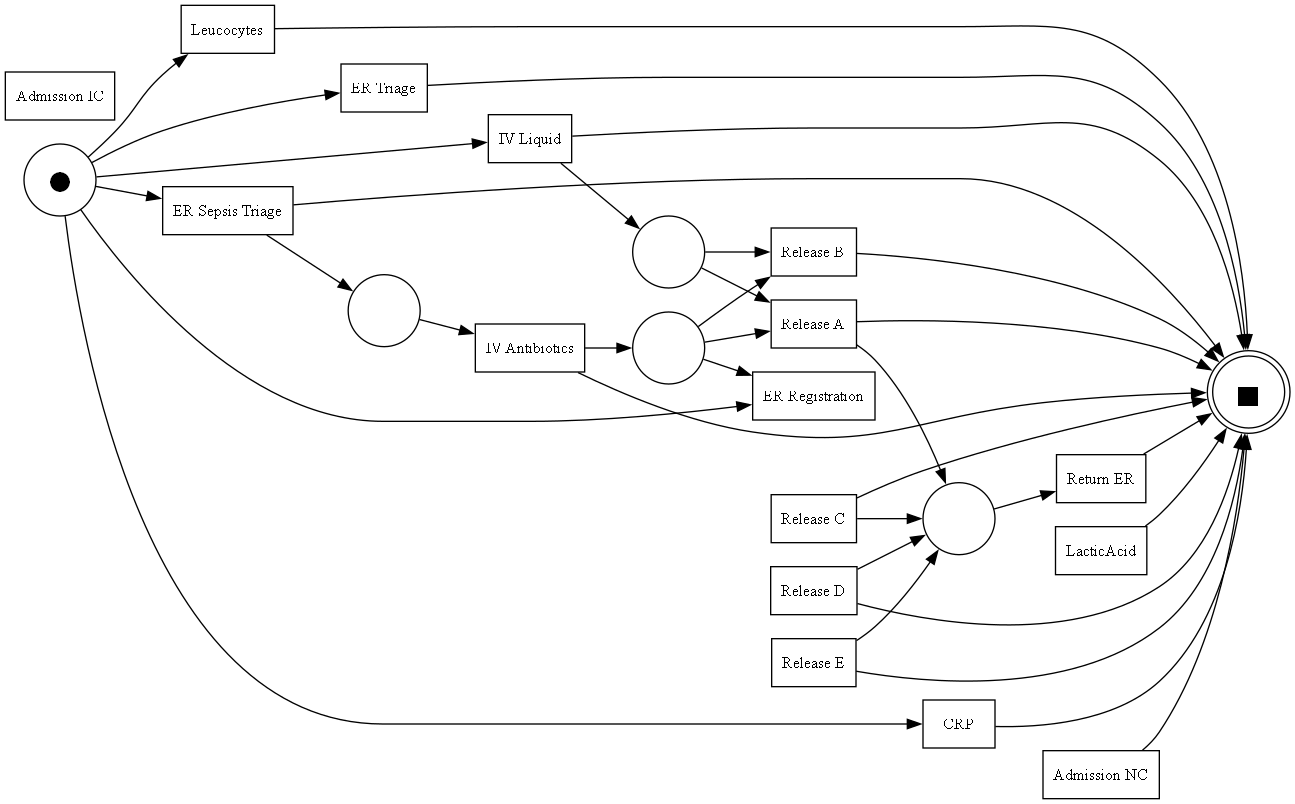
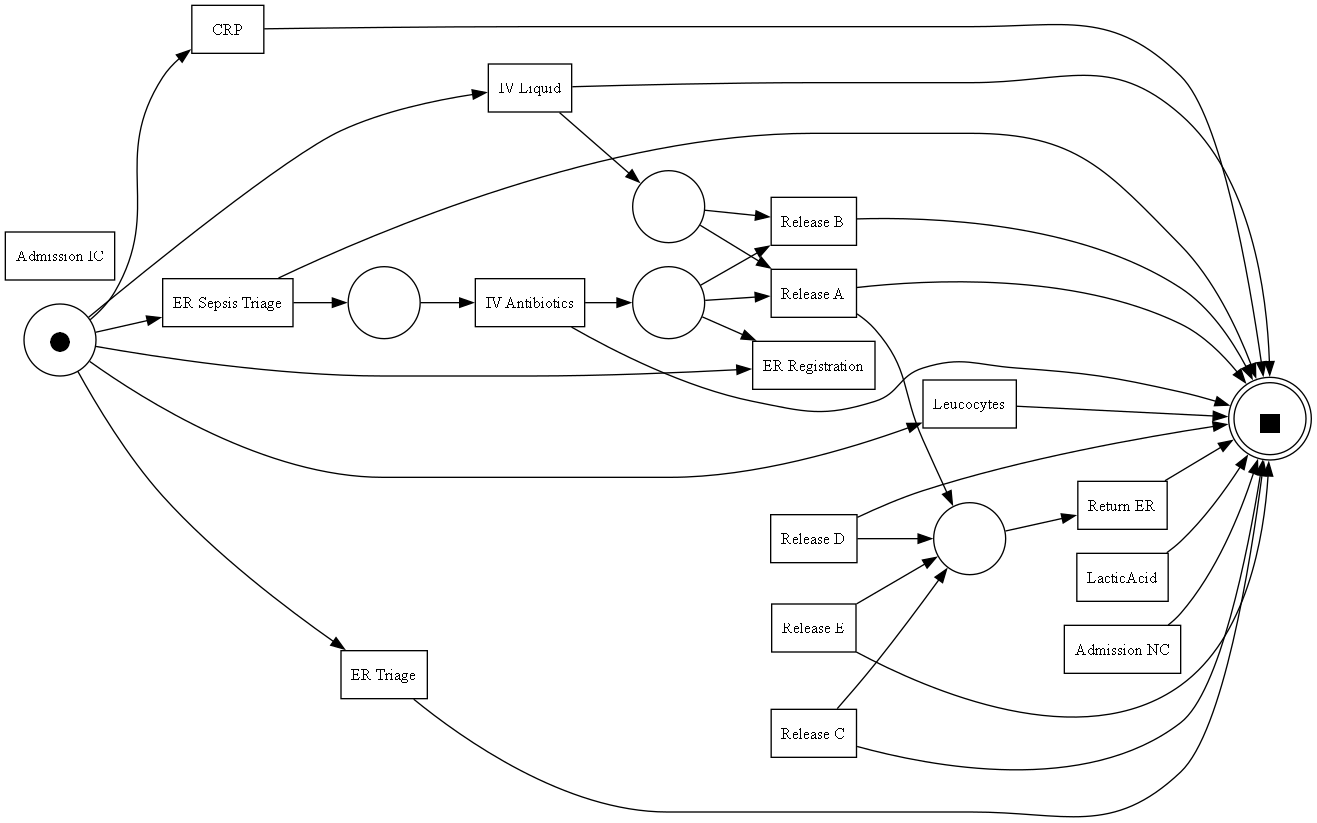
readme and run alpha added

diff --git a/src/run_alpha.py b/src/run_alpha.py
@@ -1,0 +1,82 @@
+"""
+Alpha Miner Algorithm - Single Entry Point
+
+This script discovers a Petri net from an event log using the Alpha Miner algorithm
+and saves the results (summary JSON and visualization PNG) to the results/ folder.
+
+Usage:
+    python run_alpha.py
+"""
+
+import os
+from alpha_miner import discover_alpha_net, save_alpha_summary, visualize_alpha_net
+
+
+# Configuration
+EVENT_LOG_PATH = "data/Sepsis Cases - Event Log.xes.gz"  # Path to your event log file
+OUTPUT_DIR = "results"
+SUMMARY_FILE = os.path.join(OUTPUT_DIR, "alpha_model_summary.json")
+VISUALIZATION_FILE = os.path.join(OUTPUT_DIR, "alpha_petri_net.png")
+
+
+def load_event_log(file_path):
+    """
+    Load an event log from XES file into a pandas DataFrame.
+    
+    Parameters:
+    -----------
+    file_path : str
+        Path to the XES event log file (supports .xes and .xes.gz)
+    
+    Returns:
+    --------
+    pd.DataFrame
+        Event log DataFrame with columns: 'case:concept:name', 'concept:name', 'time:timestamp'
+    """
+    import pm4py
+    df = pm4py.read_xes(file_path)
+    return df
+
+
+def main():
+    """Main entry point for the Alpha Miner algorithm."""
+    print("=" * 60)
+    print("Alpha Miner Algorithm - Petri Net Discovery")
+    print("=" * 60)
+    
+    # Step 1: Load event log
+    print(f"\n[1/4] Loading event log from '{EVENT_LOG_PATH}'...")
+    df = load_event_log(EVENT_LOG_PATH)
+    print(f"      Loaded {len(df)} events")
+    print(f"      Unique cases: {df['case:concept:name'].nunique()}")
+    print(f"      Unique activities: {df['concept:name'].nunique()}")
+    
+    # Step 2: Discover Petri net using Alpha Miner
+    print(f"\n[2/4] Discovering Petri net using Alpha Miner algorithm...")
+    net, initial_marking, final_marking = discover_alpha_net(df)
+    print(f"      Places: {len(net.places)}")
+    print(f"      Transitions: {len(net.transitions)}")
+    print(f"      Arcs: {len(net.arcs)}")
+    
+    # Step 3: Save model summary
+    print(f"\n[3/4] Saving model summary to '{SUMMARY_FILE}'...")
+    save_alpha_summary(net, initial_marking, final_marking, SUMMARY_FILE)
+    print(f"      Summary saved successfully")
+    
+    # Step 4: Save visualization
+    print(f"\n[4/4] Saving Petri net visualization to '{VISUALIZATION_FILE}'...")
+    visualize_alpha_net(net, initial_marking, final_marking, VISUALIZATION_FILE)
+    print(f"      Visualization saved successfully")
+    
+    # Completion message
+    print("\n" + "=" * 60)
+    print("Alpha Miner completed successfully!")
+    print("=" * 60)
+    print(f"\nOutput files:")
+    print(f"  - Model summary: {SUMMARY_FILE}")
+    print(f"  - Visualization: {VISUALIZATION_FILE}")
+    print()
+
+
+if __name__ == "__main__":
+    main()

diff --git a/README.md b/README.md
@@ -58,6 +58,9 @@ This runs the complete pipeline:
 ### Run a single miner
 
 ```bash
+# Alpha Miner only (saves JSON summary + PNG visualization)
+python src/run_alpha.py
+
 # Heuristics Miner only
 python run_sepsis.py
 
@@ -97,12 +100,14 @@ heuristics     0.89       0.53            0.81        0.87
 
 All results are saved to the `results/` directory:
 
-| File | Contents |
-|---|---|
-| `model_comparison.csv` | Fitness/precision/generalization/simplicity per miner |
-| `log_statistics.json` | Event log statistics (cases, events, activities, durations) |
-| `heuristics_model_summary.json` | Heuristics Miner model (edges, split types, thresholds) |
-| `inductive_model_summary.json` | Inductive Miner model (cuts, components) |
+| File | Written by | Contents |
+|---|---|---|
+| `results/metrics.csv` | `main.py` | Fitness/precision/generalization/simplicity per miner |
+| `results/log_statistics.csv` | `main.py` | Event log statistics (cases, events, activities, durations) |
+| `results/alpha_model_summary.json` | `src/run_alpha.py` | Alpha Miner model (places, transitions, arcs) |
+| `results/alpha_petri_net.png` | `src/run_alpha.py` | Alpha Miner Petri net visualization |
+| `results/heuristics_model_summary.json` | `run_sepsis.py` | Heuristics Miner model (edges, split types, thresholds) |
+| `results/inductive_model_summary.json` | `src/run_inductive_miner.py` | Inductive Miner model (cuts, components) |
 
 ---
 
@@ -117,6 +122,7 @@ ProcessDiscovery/
 │   ├── alpha_miner.py            # Alpha Miner implementation
 │   ├── heuristics_miner.py       # Heuristics Miner implementation
 │   ├── inductive_miner.py        # Inductive Miner implementation
+│   ├── run_alpha.py              # Entry point for Alpha Miner
 │   └── run_inductive_miner.py    # Entry point for Inductive Miner
 ├── main.py                       # Full pipeline (all miners + evaluation)
 ├── run_sepsis.py                 # Entry point for Heuristics Miner
